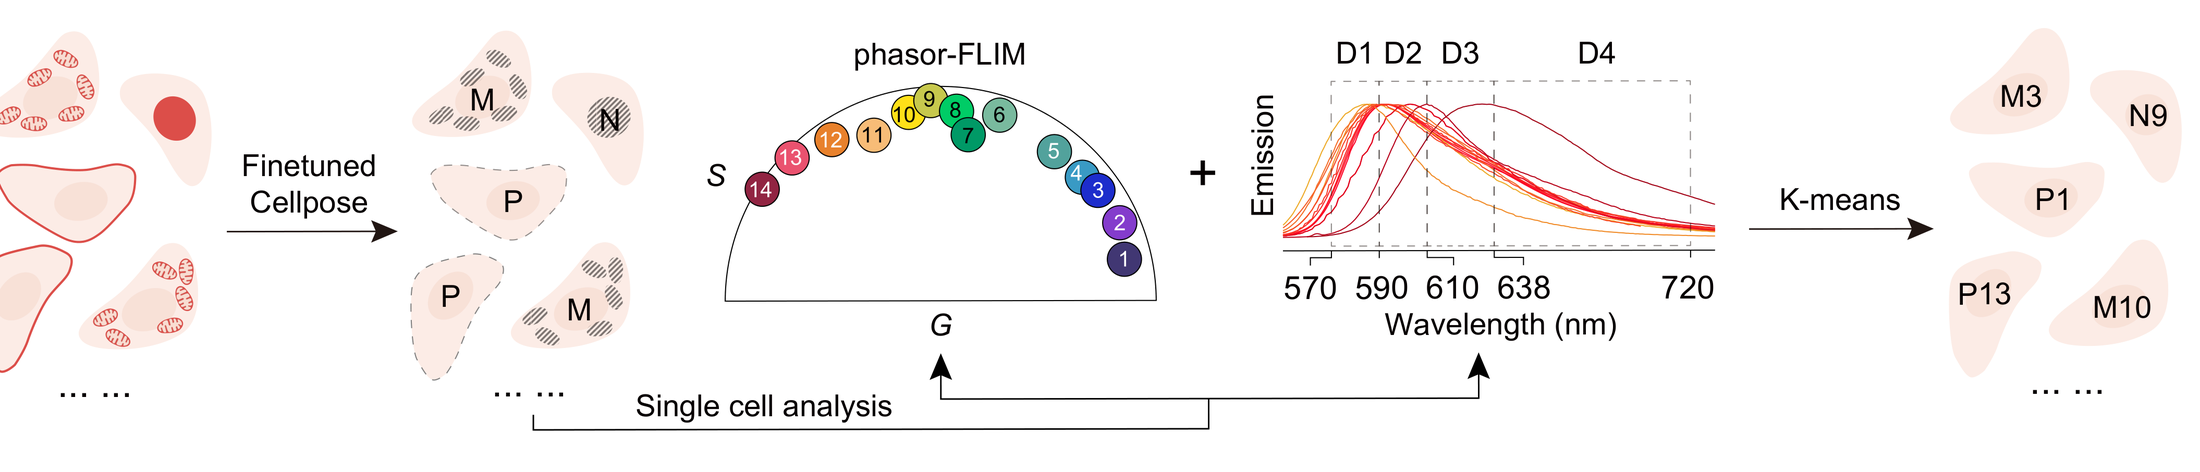
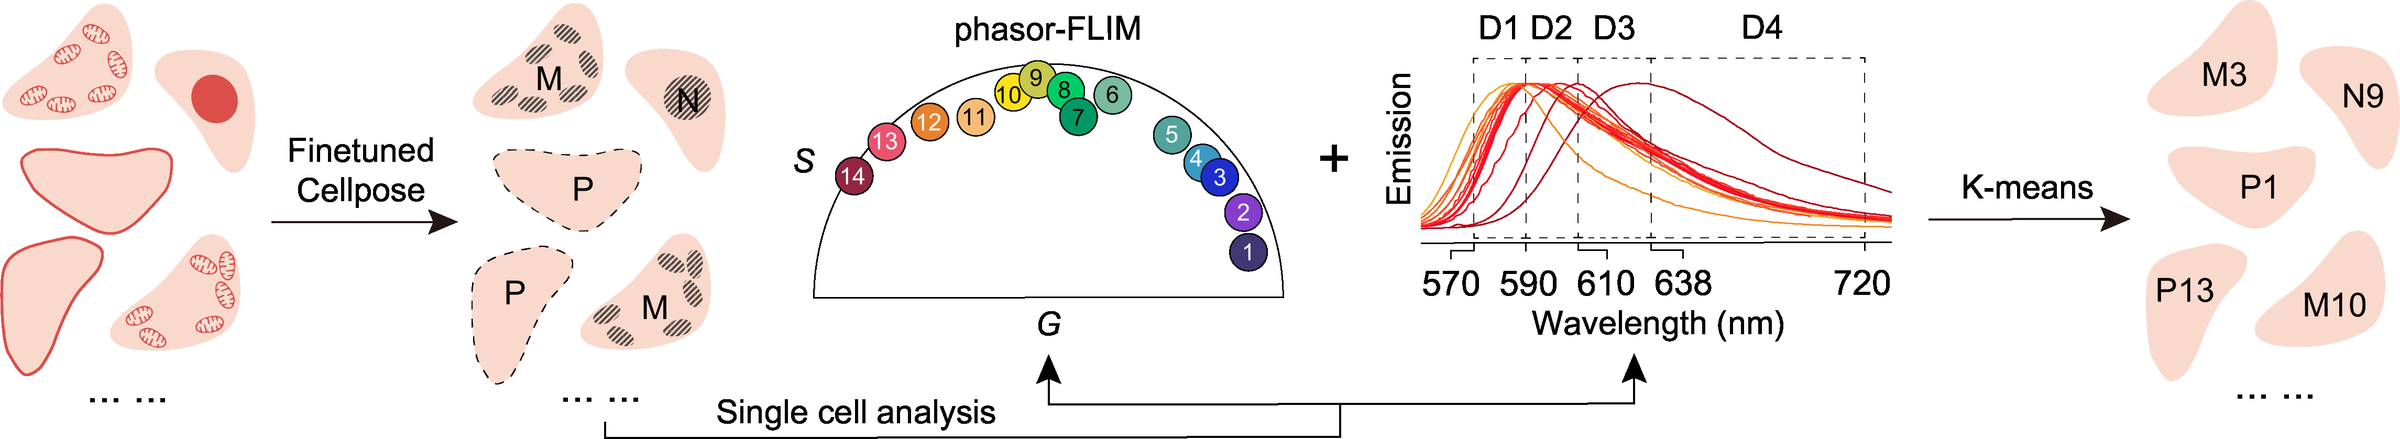
Use the figures from the slides, and the demo that shows the readout
The workflow schematic was cropped from the vector master and I cut into the
leftmost cells while trimming off the panel letter. Both figures now come from
the qualification slides, where they already exist without panel letters and at
full resolution.

The demo clip was an eight-second excerpt that stopped after the barcode
classification. It now runs the whole twenty seconds, through the per-class
typical cells and their biosensor traces, which is the part that shows what the
software is for.

The validation section said too much. It now states what was reproduced and
what it cost, and leaves the rest to the manuscript.

diff --git a/README.md b/README.md
@@ -124,45 +124,33 @@ conventions, used by Claude Code, Codex, Cursor, Copilot and others. Point one
 at this repository and it can install either tool, walk you through a step,
 tell you what a parameter means, and look at your data to say where you are.
 
-### ✅ Validation — an assistant reproduced the curated result
+### ✅ Validation — an assistant reproduced our curated result
 
 We gave **Claude Code** nothing but the address of this repository and asked it
-to install SLIC and process one dataset. Working only from the files here, it
-built a fresh environment, installed the plugin and ran all seven steps on a
-real acquisition:
+to install SLIC and process one dataset. Working only from the files here it
+built a fresh environment, installed the plugin, and ran all seven steps on a
+real 1.5 GB acquisition — from `.ptu` decoding through to one signal curve per
+barcode.
 
-| Step | Result |
+Then the harder question: does a fully automatic run agree with the version a
+human checked and corrected?
+
+| Against our manual curation | |
 |---|---|
-| 📥 PTU Reader | a 1.5 GB `.ptu` decoded into four spectral channels, the decay stacks and a lifetime map |
-| 🔬 Barcode Seg | nucleus and cytoplasm masks over the full 2048 × 2048 field |
-| 🌀 Calculate FLIM-S | every cell reduced to its 5-D fingerprint |
-| 🧩 Seeded K-Means | cells sorted into the barcodes of the panel, with per-class outlier rejection |
-| 🟡 Biosensor Seg | cells segmented in the confocal channel |
-| 📈 NaCha | one signal curve per barcode across 101 frames |
+| 🧩 **Barcode identity** | **271 of 271 cells got the same barcode. None wrong.** Shuffling the labels drops it to 21–28 %, so the agreement is real. |
+| 🔬 **Segmentation** | F1 0.83 (nuclei) and 0.87 (cytoplasm) at IoU ≥ 0.5; 0 splits, 1 merge |
+| 📋 **End to end** | 77 % of curated cells got the correct barcode, 5 % were declined as outliers, 18 % were never segmented, **0 % got a wrong one** |
 
-**Then the harder question: does a fully automatic run agree with our own manual
-curation?** We compared it against the hand-curated masks and barcode calls for
-that acquisition — the version a human checked and corrected.
+Wherever it finds a cell, it calls the barcode exactly as we did. What a fully
+automatic run costs is coverage, not correctness — the stock nucleus model finds
+about three quarters of the nuclei our fine-tuned-and-curated reference has.
+Fine-tuning on your own cells is a widget in the plugin, and it closes that gap.
 
-| Against manual curation | Result |
-|---|---|
-| 🧩 **Barcode identity** | **271 of 271 cells received the same barcode. Zero disagreements.** Stable from IoU 0.3 to 0.8; shuffling the labels drops it to 21–28 %, so the agreement is not an artefact of the matching. |
-| 🔬 **Segmentation, nuclei** | F1 = 0.83 at IoU ≥ 0.5 (precision 0.96, recall 0.73), mean Dice 0.84 on matched cells |
-| 🔬 **Segmentation, cytoplasm** | F1 = 0.87 at IoU ≥ 0.5 (precision 0.82, recall 0.92), mean Dice 0.86 on matched cells |
-| 🧬 **Cell shapes** | 0 splits and 1 merge across both masks — disagreements are whole cells found or not found, never fragmented |
-| 📋 **End to end** | of the curated classified cells, **77 % received the correct barcode, 5 % were declined as outliers, 18 % were not segmented, and none received a wrong one** |
-
-So the classification reproduces the curated result exactly wherever it finds
-the cell. What a fully automatic run costs is coverage, not correctness: the
-stock nucleus model finds about three quarters of the curated nuclei, where the
-curated reference was produced with a sample-specific fine-tune plus hand
-editing. The cells it misses are ordinary-looking rather than dim or small, and
-the barcode composition shifts by at most 2 percentage points, so the
-population readout survives. Fine-tuning on your own cells is a widget in the
-plugin, and it closes that gap.
-
-*One field of one acquisition. This is a reproduction check against a curated
-reference, not a benchmark.*
+It ran on **Claude Opus** in a single session, in an afternoon, for a few
+million tokens — tens of dollars of model usage. Most of that went on finding
+and fixing the installation problems it hit on the way, which are now fixed;
+a run that just follows these instructions is a fraction of it, and mostly GPU
+wait. *One field of one acquisition — a reproduction check, not a benchmark.*
 
 ### 🔍 "Where am I in the workflow?"
 
@@ -190,12 +178,11 @@ python Napari_plugin/scripts/workflow_status.py <sample folder>
   - Steps 5-7 (biosensor) have not run. They need the confocal B/G/Y stacks.
 ```
 
-The checks cover the decay stacks expected per field, empty masks, the phasor
-coordinates against the universal semicircle, the lifetime range, the declined
-fraction against the outlier setting, class sizes, and the registration — for
-which it tries all four rotations and reports coverage *and* purity, since
-coverage alone cannot tell a correct alignment from a wrong one. `--json` for
-scripting; exit status 1 when a check fails, so it works as a gate too.
+It checks the decay stacks, the masks, the phasor coordinates against the
+universal semicircle, the lifetimes, the declined fraction, the class sizes, and
+the registration — for which it tries all four rotations and reports coverage
+*and* purity, since coverage alone cannot tell a correct alignment from a wrong
+one. `--json` for scripting; exit status 1 on a failed check, so it gates too.
 
 ### 📚 What the assistant reads
 
@@ -203,7 +190,7 @@ scripting; exit status 1 when a check fails, so it works as a gate too.
 |---|---|
 | [`AGENTS.md`](AGENTS.md) | Repository layout, installation, the three-environment design, the headless testing pattern, and the conventions the code follows. Claude Code picks it up through the one-line `CLAUDE.md`. |
 | [`.claude/skills/slic-napari/`](.claude/skills/slic-napari/) | The plugin: seven steps control by control, how to read each output, the failure modes with the check that identifies each, and installation notes. |
-| [`.claude/skills/lumina-network/`](.claude/skills/lumina-network/) | LUMINA: the four scripts, the data layout they expect, the training recipe, how to read the confidence outputs, and how to adapt a trained checkpoint to a new cell line. |
+| [`.claude/skills/lumina-network/`](.claude/skills/lumina-network/) | LUMINA: the scripts, the data layout they expect, the training recipe, how to read the confidence outputs, and how to adapt a trained checkpoint to a new cell line. |
 
 Parameter descriptions in the skills are pulled from the widget tooltips and
 argument parsers in the source, so the documentation and the interfaces cannot
